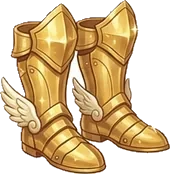
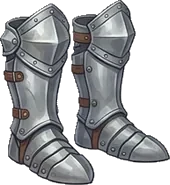
Výbava: boty a plášť po 7 sadách (nové okované/rytířské boty, válečný/rytířský plášť), převod bez ztráty (fx.gearV=2); scéna: kůň víc vlevo, mazlíček víc vpravo; cache v20
Claude-Session: https://claude.ai/code/session_016cKgCgXrxiPZEyfXMmYBda

diff --git a/index.html b/index.html
@@ -444,6 +444,14 @@ h3 .muted{color:#fff8e6;opacity:.9;text-shadow:0 1px 0 #5a3415}
 .brdemo{font-size:58px;line-height:1.1}.brdimg{width:96px;height:96px;object-fit:contain}
 .brdfact{text-align:center;font-size:22px;line-height:1.35;font-weight:800;margin:14px 8px 0;min-height:28px;color:#3b2412}
 .brdcred{margin-top:16px;font-size:12px;color:#7a6448;text-align:center}.brdcred summary{cursor:pointer;font-weight:700}.brdcred div{margin:2px 0}
+/* scéna hrdiny na hlavní kartě: hrdina uprostřed, kůň víc vlevo, mazlíček víc vpravo (24. 11.) */
+.card.hero .stage .av{max-width:420px;aspect-ratio:420/250}
+.card.hero .stage .av:not(.petav) .hfig{margin-right:0}
+.card.hero .stage .av img.comp{right:5%;width:12%}
+.card.hero .stage .av.rider{justify-content:center}
+.card.hero .stage .av.rider .hfig.riderimg{margin-right:0;max-width:34%}
+.card.hero .stage .av.rider img.horse{left:3%;width:27%;max-height:58%}
+.card.hero .stage .av.rider img.comp{right:5%;width:11%}
 
 </style>
 </head>
@@ -2235,7 +2243,7 @@ m6:[148,316,.09,.684,.903,.689,.493,.676,.074,.912],m7:[149,316,.097,.682,.89,.6
 const HEAD_GEO={m:[.235,.9],f:[.255,.86]}; // obočí (zlomek výšky), šířka pokrývky hlavy (zlomek šířky)
 const USE_LAYERS=true;
 const WGRIP={1:[.417,.842],2:[.48,.82],3:[.49,.829],4:[.492,.836],5:[.49,.836],6:[.51,.842],7:[.492,.805],8:[.487,.808],9:[.504,.751]};
-const BOOT_COL={1:'#7a4a22',2:'#8f99a6',3:'#e6edf7',4:'#c8321e',5:'#7fbfff'}; // kožené, rytířské (ocel), okřídlené (stříbrné), dračí, hvězdné
+const BOOT_COL={1:'#7a4a22',2:'#6e4a2a',3:'#8f99a6',4:'#a9bdd8',5:'#e6b422',6:'#c8321e',7:'#7fbfff'}; // kožené, okované, železné, rytířské, zlaté okřídlené, dračí, hvězdné
 // [šířka × šířka hlavy, posun spodní hrany nad obočí (zlomek výšky postavy)] – koruny jsou menší a sedí na vlasech
 // [šířka × šířka hlavy, posun spodní hrany nad obočí] – ploché koruny sedí pásem na vlasech nad čelem
 const HEAD_FIT={1:[1.0,.01],2:[1.0,.01],3:[1.0,.01],4:[1.02,.01],5:[1.0,.03],6:[1.06,.0],7:[1.0,.03]};
@@ -2268,7 +2276,7 @@ const _monsterSVG_old = monsterSVG, _sceneSVG_old = sceneSVG;
 monsterSVG = function(i){ return `<img class="monimg" src="${A_}mon${i}.webp" alt="${MONSTERS[i].name}" loading="lazy">`; };
 sceneSVG = function(i){ return `<img class="scene" src="${A_}bg${i}.webp" alt="" loading="lazy">`; };
 chestSVG = function(kind, open){ return `<img src="${A_}ui_chest_${kind==='gold'?'gold':'wood'}.webp" alt="" style="width:100%;${open?'filter:drop-shadow(0 0 16px #ffe066) brightness(1.12)':''}">`; };
-const ITEM_ICON = {weapon:9, shield:7, armor:7, head:7, boots:5, cape:5, pet:5, horse:4};
+const ITEM_ICON = {weapon:9, shield:7, armor:7, head:7, boots:7, cape:7, pet:5, horse:4};
 function itemIcon(p, slot, tier){
   if(((p&&p.mode)||'quest')==='quest' && ITEM_ICON[slot] && tier) return `<img src="${A_}i_${slot}${tier}.webp" alt="">`;
   if(p && p.mode==='pet' && PET_ACC_IMG[slot] && tier) return `<img src="${A_}pa_${slot}${tier}.webp" alt="">`;
@@ -2421,6 +2429,23 @@ var FOE_N = 15, REWARD_AT = 9;
   TIPSPEC.push([[0,8],[1,6]],[[2,6],[3,6],[7,1]],[[0,9],[4,4],[6,4]],[[1,7],[2,7],[7,3]],[[0,9],[1,7],[2,7],[6,5],[7,4]]);
   Object.assign(PET_ACC_IMG,{buddy:0}); Object.assign(HOME_IMG,{});
 })();
+// 24. 11. 2026: boty a plášť mají stejných 7 sad jako štít, brnění a helma
+// (1 začátečnické, 2 okované, 3 železné, 4 rytířské, 5 zlaté, 6 dračí, 7 hvězdné) – ceny po sadách jako helma.
+// Staré kusy mají stejné vlastnosti jako dřív, jen jiné pořadí (převod v migrateGear, značka fx.gearV=2).
+(function(){
+  SLOTMAP.boots.items=[['Kožené boty',0,0,4,40],['Okované boty',0,1,5,110],['Železné boty',0,1,6,230],['Rytířské boty',1,2,7,390],['Zlaté okřídlené boty',2,3,8,660],['Dračí boty',3,4,10,900],['Hvězdné boty',4,6,13,1180]];
+  SLOTMAP.cape.items=[['Krátký plášť',0,0,4,40],['Hrdinský plášť',0,1,6,110],['Válečný plášť',0,2,7,230],['Rytířský plášť',0,2,9,390],['Královský plášť',0,3,10,660],['Dračí plášť',0,5,13,900],['Hvězdný plášť',0,7,17,1180]];
+})();
+const GEAR_V2_MAP={boots:[0,1,3,5,6,7], cape:[0,1,2,5,6,7]}; // staré číslo kusu → nové
+function migrateGear(p){
+  const f=p.fx=p.fx||{}; if((f.gearV||1)>=2) return; f.gearV=2;
+  const mp=(k,n)=>{ n=+n||0; return n>0 ? GEAR_V2_MAP[k][Math.min(n,5)] : n; };
+  for(const k of ['boots','cape']){
+    if(p.owned && p.owned[k]) p.owned[k]=mp(k,p.owned[k]);
+    if(p.eq && p.eq[k]) p.eq[k]=mp(k,p.eq[k]);
+    if(p.newItem && p.newItem.indexOf(k+':')===0) p.newItem=k+':'+mp(k,p.newItem.split(':')[1]);
+  }
+}
 // název odměny za legendární výpravu (volitelné, nastavují rodiče)
 function reward2Of(p){ return (p&&p.reward2)||(S.settings&&S.settings.reward2)||''; }
 const _itemIcon0=itemIcon;
@@ -2468,7 +2493,7 @@ function newId(){ return 'h'+Date.now().toString(36)+Math.random().toString(36).
 function newProfile(o={}){
   const grade=(o.grade!==undefined&&o.grade!==null&&o.grade!=='')?+o.grade:2;
   return Object.assign({id:newId(), name:'Hrdina', grade, gender:'m', mode:'quest', color:'#4f7cff', cats:defaultCats(grade, ['m']), catsV:4, pin:'', reward:'',
-    points:0, xp:0, owned:{}, eq:{}, beaten:0, chests:[], rewardClaimed:false, season:1, streak:0, lastDone:null, history:{}, today:null, totalCorrect:0, created:Date.now()}, o);
+    points:0, xp:0, owned:{}, eq:{}, beaten:0, chests:[], rewardClaimed:false, season:1, streak:0, lastDone:null, history:{}, today:null, totalCorrect:0, created:Date.now(), fx:{gearV:2}}, o);
 }
 function defaultState(){
   return {v:2, savedAt:0,
@@ -2494,6 +2519,8 @@ function migrate(p){
   if((p.catsV||1)<4){ if(p.cats && p.cats.length){ let c=p.cats.slice();
       for(const [sj,re] of [['m',/^(?!en_|pr_|cj_)/],['en',/^en_/]]) if(c.some(x=>re.test(x)&&CATS[x]&&subjOf(x)===sj)){ const d=defaultCats(+p.grade||0,[sj],halfOf(p)).filter(x=>/^(m_|en_[zjstrd]$|en_sent)/.test(x)); c=c.concat(d.filter(x=>!c.includes(x))); }
       p.cats=c; } p.catsV=4; }
+  // výbava v2: boty a plášť po 7 sadách (part_more.js)
+  if(typeof migrateGear==='function') migrateGear(p);
   return p;
 }
 function migrateSettings(){ if(!S.settings.ver || S.settings.ver<3){ S.settings.perDay=10; S.settings.ver=3; } }

diff --git a/src/part_img.js b/src/part_img.js
@@ -14,7 +14,7 @@ m6:[148,316,.09,.684,.903,.689,.493,.676,.074,.912],m7:[149,316,.097,.682,.89,.6
 const HEAD_GEO={m:[.235,.9],f:[.255,.86]}; // obočí (zlomek výšky), šířka pokrývky hlavy (zlomek šířky)
 const USE_LAYERS=true;
 const WGRIP={1:[.417,.842],2:[.48,.82],3:[.49,.829],4:[.492,.836],5:[.49,.836],6:[.51,.842],7:[.492,.805],8:[.487,.808],9:[.504,.751]};
-const BOOT_COL={1:'#7a4a22',2:'#8f99a6',3:'#e6edf7',4:'#c8321e',5:'#7fbfff'}; // kožené, rytířské (ocel), okřídlené (stříbrné), dračí, hvězdné
+const BOOT_COL={1:'#7a4a22',2:'#6e4a2a',3:'#8f99a6',4:'#a9bdd8',5:'#e6b422',6:'#c8321e',7:'#7fbfff'}; // kožené, okované, železné, rytířské, zlaté okřídlené, dračí, hvězdné
 // [šířka × šířka hlavy, posun spodní hrany nad obočí (zlomek výšky postavy)] – koruny jsou menší a sedí na vlasech
 // [šířka × šířka hlavy, posun spodní hrany nad obočí] – ploché koruny sedí pásem na vlasech nad čelem
 const HEAD_FIT={1:[1.0,.01],2:[1.0,.01],3:[1.0,.01],4:[1.02,.01],5:[1.0,.03],6:[1.06,.0],7:[1.0,.03]};
@@ -47,7 +47,7 @@ const _monsterSVG_old = monsterSVG, _sceneSVG_old = sceneSVG;
 monsterSVG = function(i){ return `<img class="monimg" src="${A_}mon${i}.webp" alt="${MONSTERS[i].name}" loading="lazy">`; };
 sceneSVG = function(i){ return `<img class="scene" src="${A_}bg${i}.webp" alt="" loading="lazy">`; };
 chestSVG = function(kind, open){ return `<img src="${A_}ui_chest_${kind==='gold'?'gold':'wood'}.webp" alt="" style="width:100%;${open?'filter:drop-shadow(0 0 16px #ffe066) brightness(1.12)':''}">`; };
-const ITEM_ICON = {weapon:9, shield:7, armor:7, head:7, boots:5, cape:5, pet:5, horse:4};
+const ITEM_ICON = {weapon:9, shield:7, armor:7, head:7, boots:7, cape:7, pet:5, horse:4};
 function itemIcon(p, slot, tier){
   if(((p&&p.mode)||'quest')==='quest' && ITEM_ICON[slot] && tier) return `<img src="${A_}i_${slot}${tier}.webp" alt="">`;
   if(p && p.mode==='pet' && PET_ACC_IMG[slot] && tier) return `<img src="${A_}pa_${slot}${tier}.webp" alt="">`;

diff --git a/src/part_more.js b/src/part_more.js
@@ -34,6 +34,23 @@ var FOE_N = 15, REWARD_AT = 9;
   TIPSPEC.push([[0,8],[1,6]],[[2,6],[3,6],[7,1]],[[0,9],[4,4],[6,4]],[[1,7],[2,7],[7,3]],[[0,9],[1,7],[2,7],[6,5],[7,4]]);
   Object.assign(PET_ACC_IMG,{buddy:0}); Object.assign(HOME_IMG,{});
 })();
+// 24. 11. 2026: boty a plášť mají stejných 7 sad jako štít, brnění a helma
+// (1 začátečnické, 2 okované, 3 železné, 4 rytířské, 5 zlaté, 6 dračí, 7 hvězdné) – ceny po sadách jako helma.
+// Staré kusy mají stejné vlastnosti jako dřív, jen jiné pořadí (převod v migrateGear, značka fx.gearV=2).
+(function(){
+  SLOTMAP.boots.items=[['Kožené boty',0,0,4,40],['Okované boty',0,1,5,110],['Železné boty',0,1,6,230],['Rytířské boty',1,2,7,390],['Zlaté okřídlené boty',2,3,8,660],['Dračí boty',3,4,10,900],['Hvězdné boty',4,6,13,1180]];
+  SLOTMAP.cape.items=[['Krátký plášť',0,0,4,40],['Hrdinský plášť',0,1,6,110],['Válečný plášť',0,2,7,230],['Rytířský plášť',0,2,9,390],['Královský plášť',0,3,10,660],['Dračí plášť',0,5,13,900],['Hvězdný plášť',0,7,17,1180]];
+})();
+const GEAR_V2_MAP={boots:[0,1,3,5,6,7], cape:[0,1,2,5,6,7]}; // staré číslo kusu → nové
+function migrateGear(p){
+  const f=p.fx=p.fx||{}; if((f.gearV||1)>=2) return; f.gearV=2;
+  const mp=(k,n)=>{ n=+n||0; return n>0 ? GEAR_V2_MAP[k][Math.min(n,5)] : n; };
+  for(const k of ['boots','cape']){
+    if(p.owned && p.owned[k]) p.owned[k]=mp(k,p.owned[k]);
+    if(p.eq && p.eq[k]) p.eq[k]=mp(k,p.eq[k]);
+    if(p.newItem && p.newItem.indexOf(k+':')===0) p.newItem=k+':'+mp(k,p.newItem.split(':')[1]);
+  }
+}
 // název odměny za legendární výpravu (volitelné, nastavují rodiče)
 function reward2Of(p){ return (p&&p.reward2)||(S.settings&&S.settings.reward2)||''; }
 const _itemIcon0=itemIcon;

diff --git a/src/part_main.js b/src/part_main.js
@@ -4,7 +4,7 @@ function newId(){ return 'h'+Date.now().toString(36)+Math.random().toString(36).
 function newProfile(o={}){
   const grade=(o.grade!==undefined&&o.grade!==null&&o.grade!=='')?+o.grade:2;
   return Object.assign({id:newId(), name:'Hrdina', grade, gender:'m', mode:'quest', color:'#4f7cff', cats:defaultCats(grade, ['m']), catsV:4, pin:'', reward:'',
-    points:0, xp:0, owned:{}, eq:{}, beaten:0, chests:[], rewardClaimed:false, season:1, streak:0, lastDone:null, history:{}, today:null, totalCorrect:0, created:Date.now()}, o);
+    points:0, xp:0, owned:{}, eq:{}, beaten:0, chests:[], rewardClaimed:false, season:1, streak:0, lastDone:null, history:{}, today:null, totalCorrect:0, created:Date.now(), fx:{gearV:2}}, o);
 }
 function defaultState(){
   return {v:2, savedAt:0,
@@ -30,6 +30,8 @@ function migrate(p){
   if((p.catsV||1)<4){ if(p.cats && p.cats.length){ let c=p.cats.slice();
       for(const [sj,re] of [['m',/^(?!en_|pr_|cj_)/],['en',/^en_/]]) if(c.some(x=>re.test(x)&&CATS[x]&&subjOf(x)===sj)){ const d=defaultCats(+p.grade||0,[sj],halfOf(p)).filter(x=>/^(m_|en_[zjstrd]$|en_sent)/.test(x)); c=c.concat(d.filter(x=>!c.includes(x))); }
       p.cats=c; } p.catsV=4; }
+  // výbava v2: boty a plášť po 7 sadách (part_more.js)
+  if(typeof migrateGear==='function') migrateGear(p);
   return p;
 }
 function migrateSettings(){ if(!S.settings.ver || S.settings.ver<3){ S.settings.perDay=10; S.settings.ver=3; } }

diff --git a/src/part_theme.css b/src/part_theme.css
@@ -242,3 +242,11 @@ h3 .muted{color:#fff8e6;opacity:.9;text-shadow:0 1px 0 #5a3415}
 .brdemo{font-size:58px;line-height:1.1}.brdimg{width:96px;height:96px;object-fit:contain}
 .brdfact{text-align:center;font-size:22px;line-height:1.35;font-weight:800;margin:14px 8px 0;min-height:28px;color:#3b2412}
 .brdcred{margin-top:16px;font-size:12px;color:#7a6448;text-align:center}.brdcred summary{cursor:pointer;font-weight:700}.brdcred div{margin:2px 0}
+/* scéna hrdiny na hlavní kartě: hrdina uprostřed, kůň víc vlevo, mazlíček víc vpravo (24. 11.) */
+.card.hero .stage .av{max-width:420px;aspect-ratio:420/250}
+.card.hero .stage .av:not(.petav) .hfig{margin-right:0}
+.card.hero .stage .av img.comp{right:5%;width:12%}
+.card.hero .stage .av.rider{justify-content:center}
+.card.hero .stage .av.rider .hfig.riderimg{margin-right:0;max-width:34%}
+.card.hero .stage .av.rider img.horse{left:3%;width:27%;max-height:58%}
+.card.hero .stage .av.rider img.comp{right:5%;width:11%}

diff --git a/sw.js b/sw.js
@@ -1,5 +1,5 @@
 // Chytrolínci – offline cache (stránka vždy čerstvá ze sítě, obrázky z cache)
-const C='chytrolinci-v19';
+const C='chytrolinci-v20';
 self.addEventListener('install', e=>{ self.skipWaiting(); e.waitUntil(caches.open(C).then(c=>c.addAll(['./','./index.html','./config.js','./manifest.webmanifest','./icon-192.png']).catch(()=>{}))); });
 self.addEventListener('activate', e=>{ e.waitUntil(caches.keys().then(ks=>Promise.all(ks.filter(k=>k!==C).map(k=>caches.delete(k)))).then(()=>self.clients.claim())); });
 self.addEventListener('fetch', e=>{
